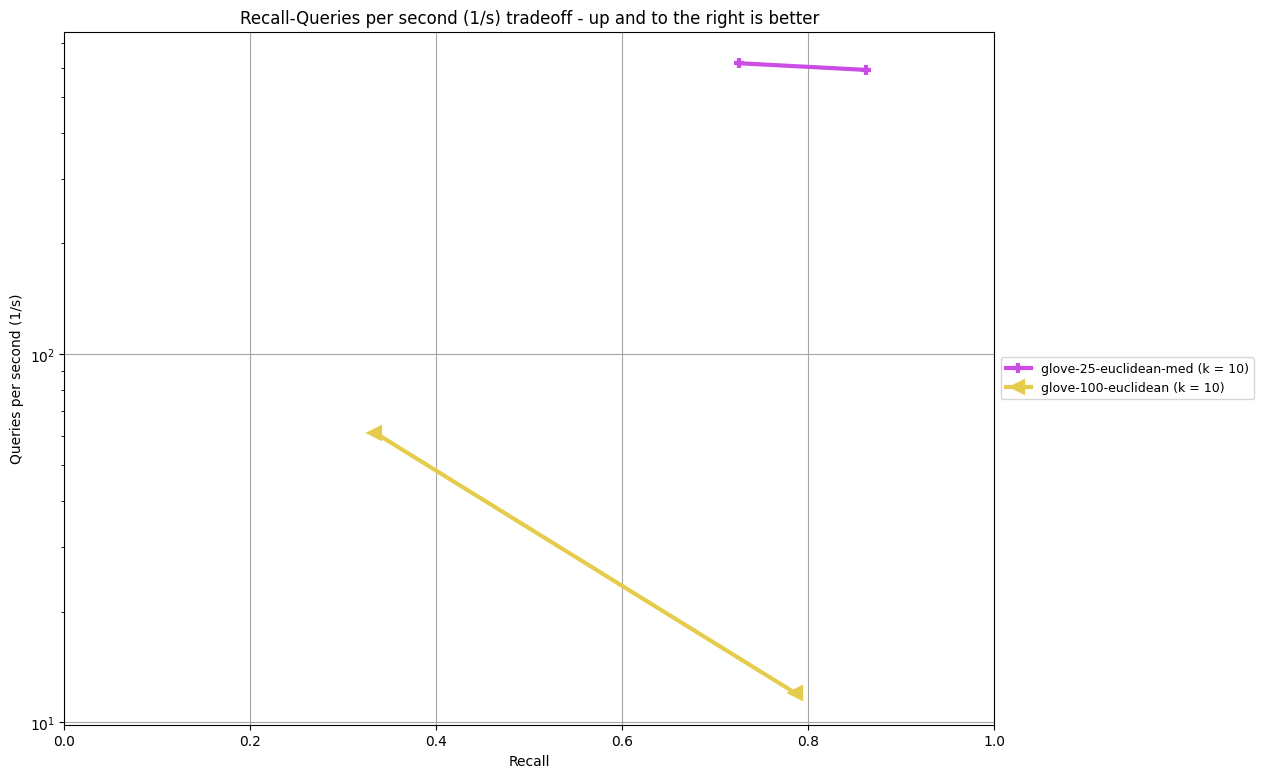
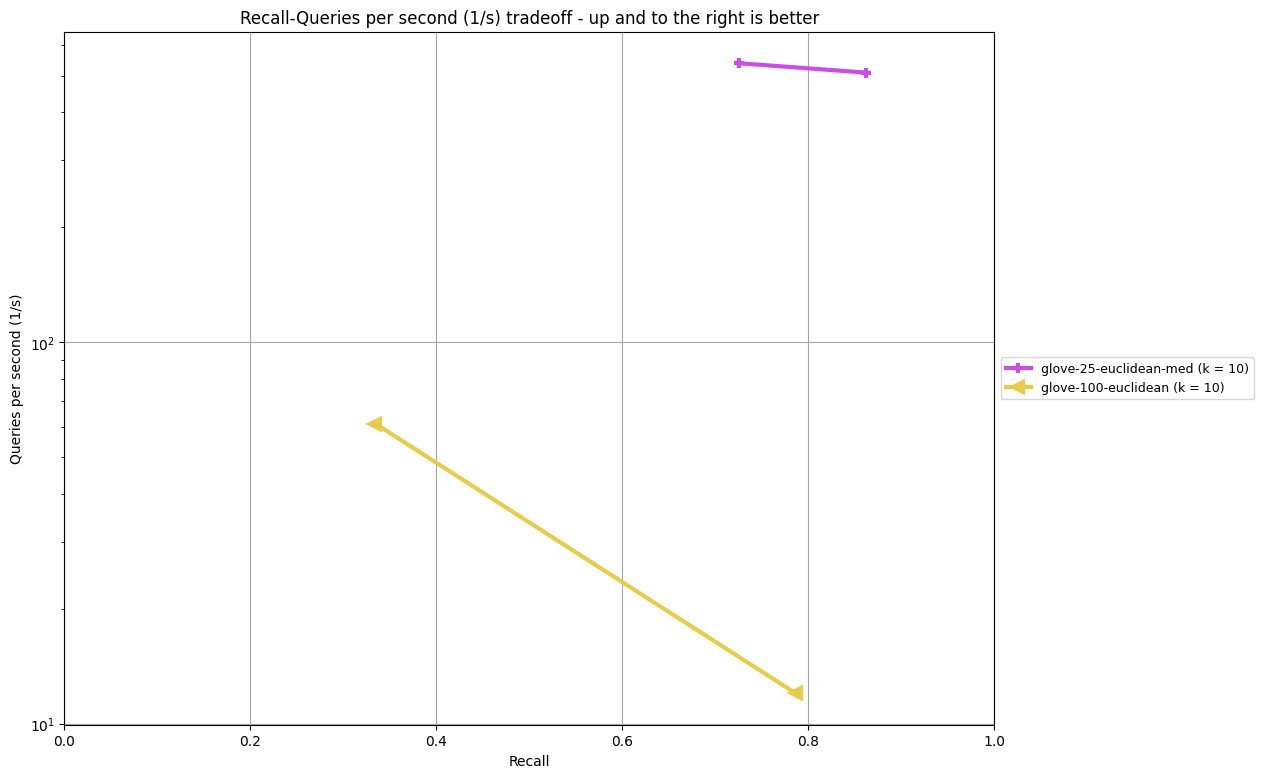
Re-init mqh-test

Changed region(s): [[0.2779, 0.5244, 0.5867, 0.8329], [0.6176, 0.0617, 0.6793, 0.0925], [0.0309, 0.4319, 0.0618, 0.4627]]

diff --git a/glove-25-euclidean-med_10_euclidean.html b/glove-25-euclidean-med_10_euclidean.html
@@ -74,8 +74,8 @@
                             pointStyle: "circle",
                             borderColor: "rgba(153, 153, 153, 1)",
                             data: [
-                                                                    { x: 0.72514 , y: 617.5087767784531, label: "MQH(M2=16, level=4, m_level=1, m_num=64, l0=5, delta=0.3, flag=0)" },
-                                                                    { x: 0.8614900000000001 , y: 592.3678190087902, label: "MQH(M2=16, level=4, m_level=1, m_num=64, l0=5, delta=0.3, flag=1)" },
+                                                                    { x: 0.72514 , y: 538.5044294299818, label: "MQH(M2=16, level=4, m_level=1, m_num=64, l0=5, delta=0.3, flag=0)" },
+                                                                    { x: 0.8614900000000001 , y: 508.95259044948216, label: "MQH(M2=16, level=4, m_level=1, m_num=64, l0=5, delta=0.3, flag=1)" },
                                                             ]
                         },
                                                 {
@@ -172,7 +172,7 @@
                             pointStyle: "circle",
                             borderColor: "rgba(153, 153, 153, 1)",
                             data: [
-                                                                    { x: 0.8614900000000001 , y: 12.964287042617798, label: "MQH(M2=16, level=4, m_level=1, m_num=64, l0=5, delta=0.3, flag=1)" },
+                                                                    { x: 0.8614900000000001 , y: 12.434906005859375, label: "MQH(M2=16, level=4, m_level=1, m_num=64, l0=5, delta=0.3, flag=1)" },
                                                             ]
                         },
                                                 {
@@ -462,8 +462,8 @@
                             pointStyle: "circle",
                             borderColor: "rgba(153, 153, 153, 1)",
                             data: [
-                                                                    { x: 0.02700221862048718 , y: 617.5087767784531, label: "MQH(M2=16, level=4, m_level=1, m_num=64, l0=5, delta=0.3, flag=0)" },
-                                                                    { x: 0.02394325363393303 , y: 592.3678190087902, label: "MQH(M2=16, level=4, m_level=1, m_num=64, l0=5, delta=0.3, flag=1)" },
+                                                                    { x: 0.02700221862048718 , y: 538.5044294299818, label: "MQH(M2=16, level=4, m_level=1, m_num=64, l0=5, delta=0.3, flag=0)" },
+                                                                    { x: 0.02394325363393303 , y: 508.95259044948216, label: "MQH(M2=16, level=4, m_level=1, m_num=64, l0=5, delta=0.3, flag=1)" },
                                                             ]
                         },
                                                 {
@@ -659,8 +659,8 @@
                             pointStyle: "circle",
                             borderColor: "rgba(153, 153, 153, 1)",
                             data: [
-                                                                    { x: 0.72514 , y: 3238.820362091065, label: "MQH(M2=16, level=4, m_level=1, m_num=64, l0=5, delta=0.3, flag=0)" },
-                                                                    { x: 0.8614900000000001 , y: 3376.280641555786, label: "MQH(M2=16, level=4, m_level=1, m_num=64, l0=5, delta=0.3, flag=1)" },
+                                                                    { x: 0.72514 , y: 3713.989877700805, label: "MQH(M2=16, level=4, m_level=1, m_num=64, l0=5, delta=0.3, flag=0)" },
+                                                                    { x: 0.8614900000000001 , y: 3929.6391010284424, label: "MQH(M2=16, level=4, m_level=1, m_num=64, l0=5, delta=0.3, flag=1)" },
                                                             ]
                         },
                                                 {
@@ -760,8 +760,8 @@
                             pointStyle: "circle",
                             borderColor: "rgba(153, 153, 153, 1)",
                             data: [
-                                                                    { x: 0.46082999999999996 , y: 617.5087767784531, label: "MQH(M2=16, level=4, m_level=1, m_num=64, l0=5, delta=0.3, flag=0)" },
-                                                                    { x: 0.56654 , y: 592.3678190087902, label: "MQH(M2=16, level=4, m_level=1, m_num=64, l0=5, delta=0.3, flag=1)" },
+                                                                    { x: 0.46082999999999996 , y: 538.5044294299818, label: "MQH(M2=16, level=4, m_level=1, m_num=64, l0=5, delta=0.3, flag=0)" },
+                                                                    { x: 0.56654 , y: 508.95259044948216, label: "MQH(M2=16, level=4, m_level=1, m_num=64, l0=5, delta=0.3, flag=1)" },
                                                             ]
                         },
                                                 {
@@ -861,8 +861,8 @@
                             pointStyle: "circle",
                             borderColor: "rgba(153, 153, 153, 1)",
                             data: [
-                                                                    { x: 0.49583000000000005 , y: 617.5087767784531, label: "MQH(M2=16, level=4, m_level=1, m_num=64, l0=5, delta=0.3, flag=0)" },
-                                                                    { x: 0.6048199999999999 , y: 592.3678190087902, label: "MQH(M2=16, level=4, m_level=1, m_num=64, l0=5, delta=0.3, flag=1)" },
+                                                                    { x: 0.49583000000000005 , y: 538.5044294299818, label: "MQH(M2=16, level=4, m_level=1, m_num=64, l0=5, delta=0.3, flag=0)" },
+                                                                    { x: 0.6048199999999999 , y: 508.95259044948216, label: "MQH(M2=16, level=4, m_level=1, m_num=64, l0=5, delta=0.3, flag=1)" },
                                                             ]
                         },
                                                 {
@@ -962,8 +962,8 @@
                             pointStyle: "circle",
                             borderColor: "rgba(153, 153, 153, 1)",
                             data: [
-                                                                    { x: 0.72514 , y: 1.5234947204589844, label: "MQH(M2=16, level=4, m_level=1, m_num=64, l0=5, delta=0.3, flag=0)" },
-                                                                    { x: 0.8614900000000001 , y: 1.6592741012573242, label: "MQH(M2=16, level=4, m_level=1, m_num=64, l0=5, delta=0.3, flag=1)" },
+                                                                    { x: 0.72514 , y: 1.8460750579833984, label: "MQH(M2=16, level=4, m_level=1, m_num=64, l0=5, delta=0.3, flag=0)" },
+                                                                    { x: 0.8614900000000001 , y: 1.9879341125488281, label: "MQH(M2=16, level=4, m_level=1, m_num=64, l0=5, delta=0.3, flag=1)" },
                                                             ]
                         },
                                                 {
@@ -1063,7 +1063,8 @@
                             pointStyle: "circle",
                             borderColor: "rgba(153, 153, 153, 1)",
                             data: [
-                                                                    { x: 0.8614900000000001 , y: 2.126765251159667, label: "MQH(M2=16, level=4, m_level=1, m_num=64, l0=5, delta=0.3, flag=1)" },
+                                                                    { x: 0.72514 , y: 2.123844623565674, label: "MQH(M2=16, level=4, m_level=1, m_num=64, l0=5, delta=0.3, flag=0)" },
+                                                                    { x: 0.8614900000000001 , y: 2.193450927734375, label: "MQH(M2=16, level=4, m_level=1, m_num=64, l0=5, delta=0.3, flag=1)" },
                                                             ]
                         },
                                                 {
@@ -1163,7 +1164,8 @@
                             pointStyle: "circle",
                             borderColor: "rgba(153, 153, 153, 1)",
                             data: [
-                                                                    { x: 0.8614900000000001 , y: 2.584226131439209, label: "MQH(M2=16, level=4, m_level=1, m_num=64, l0=5, delta=0.3, flag=1)" },
+                                                                    { x: 0.72514 , y: 2.2902822494506845, label: "MQH(M2=16, level=4, m_level=1, m_num=64, l0=5, delta=0.3, flag=0)" },
+                                                                    { x: 0.8614900000000001 , y: 2.349157333374024, label: "MQH(M2=16, level=4, m_level=1, m_num=64, l0=5, delta=0.3, flag=1)" },
                                                             ]
                         },
                                                 {
@@ -1262,7 +1264,7 @@
                             pointStyle: "circle",
                             borderColor: "rgba(153, 153, 153, 1)",
                             data: [
-                                                                    { x: 0.8614900000000001 , y: 4.048161268234264, label: "MQH(M2=16, level=4, m_level=1, m_num=64, l0=5, delta=0.3, flag=1)" },
+                                                                    { x: 0.8614900000000001 , y: 2.6106846332550053, label: "MQH(M2=16, level=4, m_level=1, m_num=64, l0=5, delta=0.3, flag=1)" },
                                                             ]
                         },
                                                 {

diff --git a/mqh-kjl.html b/mqh-kjl.html
@@ -72,8 +72,8 @@
                             pointStyle: "rect",
                             borderColor: "rgba(204, 76, 229, 1)",
                             data: [
-                                                                    { x: 0.72514 , y: 617.5087767784531, label: "MQH(M2=16, level=4, m_level=1, m_num=64, l0=5, delta=0.3, flag=0)" },
-                                                                    { x: 0.8614900000000001 , y: 592.3678190087902, label: "MQH(M2=16, level=4, m_level=1, m_num=64, l0=5, delta=0.3, flag=1)" },
+                                                                    { x: 0.72514 , y: 538.5044294299818, label: "MQH(M2=16, level=4, m_level=1, m_num=64, l0=5, delta=0.3, flag=0)" },
+                                                                    { x: 0.8614900000000001 , y: 508.95259044948216, label: "MQH(M2=16, level=4, m_level=1, m_num=64, l0=5, delta=0.3, flag=1)" },
                                                             ]
                         },
                                                 ]},
@@ -160,7 +160,7 @@
                             pointStyle: "rect",
                             borderColor: "rgba(204, 76, 229, 1)",
                             data: [
-                                                                    { x: 0.8614900000000001 , y: 12.964287042617798, label: "MQH(M2=16, level=4, m_level=1, m_num=64, l0=5, delta=0.3, flag=1)" },
+                                                                    { x: 0.8614900000000001 , y: 12.434906005859375, label: "MQH(M2=16, level=4, m_level=1, m_num=64, l0=5, delta=0.3, flag=1)" },
                                                             ]
                         },
                                                 ]},
@@ -420,8 +420,8 @@
                             pointStyle: "rect",
                             borderColor: "rgba(204, 76, 229, 1)",
                             data: [
-                                                                    { x: 0.02700221862048718 , y: 617.5087767784531, label: "MQH(M2=16, level=4, m_level=1, m_num=64, l0=5, delta=0.3, flag=0)" },
-                                                                    { x: 0.02394325363393303 , y: 592.3678190087902, label: "MQH(M2=16, level=4, m_level=1, m_num=64, l0=5, delta=0.3, flag=1)" },
+                                                                    { x: 0.02700221862048718 , y: 538.5044294299818, label: "MQH(M2=16, level=4, m_level=1, m_num=64, l0=5, delta=0.3, flag=0)" },
+                                                                    { x: 0.02394325363393303 , y: 508.95259044948216, label: "MQH(M2=16, level=4, m_level=1, m_num=64, l0=5, delta=0.3, flag=1)" },
                                                             ]
                         },
                                                 ]},
@@ -596,8 +596,8 @@
                             pointStyle: "rect",
                             borderColor: "rgba(204, 76, 229, 1)",
                             data: [
-                                                                    { x: 0.72514 , y: 3238.820362091065, label: "MQH(M2=16, level=4, m_level=1, m_num=64, l0=5, delta=0.3, flag=0)" },
-                                                                    { x: 0.8614900000000001 , y: 3376.280641555786, label: "MQH(M2=16, level=4, m_level=1, m_num=64, l0=5, delta=0.3, flag=1)" },
+                                                                    { x: 0.72514 , y: 3713.989877700805, label: "MQH(M2=16, level=4, m_level=1, m_num=64, l0=5, delta=0.3, flag=0)" },
+                                                                    { x: 0.8614900000000001 , y: 3929.6391010284424, label: "MQH(M2=16, level=4, m_level=1, m_num=64, l0=5, delta=0.3, flag=1)" },
                                                             ]
                         },
                                                 ]},
@@ -685,8 +685,8 @@
                             pointStyle: "rect",
                             borderColor: "rgba(204, 76, 229, 1)",
                             data: [
-                                                                    { x: 0.46082999999999996 , y: 617.5087767784531, label: "MQH(M2=16, level=4, m_level=1, m_num=64, l0=5, delta=0.3, flag=0)" },
-                                                                    { x: 0.56654 , y: 592.3678190087902, label: "MQH(M2=16, level=4, m_level=1, m_num=64, l0=5, delta=0.3, flag=1)" },
+                                                                    { x: 0.46082999999999996 , y: 538.5044294299818, label: "MQH(M2=16, level=4, m_level=1, m_num=64, l0=5, delta=0.3, flag=0)" },
+                                                                    { x: 0.56654 , y: 508.95259044948216, label: "MQH(M2=16, level=4, m_level=1, m_num=64, l0=5, delta=0.3, flag=1)" },
                                                             ]
                         },
                                                 ]},
@@ -774,8 +774,8 @@
                             pointStyle: "rect",
                             borderColor: "rgba(204, 76, 229, 1)",
                             data: [
-                                                                    { x: 0.49583000000000005 , y: 617.5087767784531, label: "MQH(M2=16, level=4, m_level=1, m_num=64, l0=5, delta=0.3, flag=0)" },
-                                                                    { x: 0.6048199999999999 , y: 592.3678190087902, label: "MQH(M2=16, level=4, m_level=1, m_num=64, l0=5, delta=0.3, flag=1)" },
+                                                                    { x: 0.49583000000000005 , y: 538.5044294299818, label: "MQH(M2=16, level=4, m_level=1, m_num=64, l0=5, delta=0.3, flag=0)" },
+                                                                    { x: 0.6048199999999999 , y: 508.95259044948216, label: "MQH(M2=16, level=4, m_level=1, m_num=64, l0=5, delta=0.3, flag=1)" },
                                                             ]
                         },
                                                 ]},
@@ -863,8 +863,8 @@
                             pointStyle: "rect",
                             borderColor: "rgba(204, 76, 229, 1)",
                             data: [
-                                                                    { x: 0.72514 , y: 1.5234947204589844, label: "MQH(M2=16, level=4, m_level=1, m_num=64, l0=5, delta=0.3, flag=0)" },
-                                                                    { x: 0.8614900000000001 , y: 1.6592741012573242, label: "MQH(M2=16, level=4, m_level=1, m_num=64, l0=5, delta=0.3, flag=1)" },
+                                                                    { x: 0.72514 , y: 1.8460750579833984, label: "MQH(M2=16, level=4, m_level=1, m_num=64, l0=5, delta=0.3, flag=0)" },
+                                                                    { x: 0.8614900000000001 , y: 1.9879341125488281, label: "MQH(M2=16, level=4, m_level=1, m_num=64, l0=5, delta=0.3, flag=1)" },
                                                             ]
                         },
                                                 ]},
@@ -952,7 +952,8 @@
                             pointStyle: "rect",
                             borderColor: "rgba(204, 76, 229, 1)",
                             data: [
-                                                                    { x: 0.8614900000000001 , y: 2.126765251159667, label: "MQH(M2=16, level=4, m_level=1, m_num=64, l0=5, delta=0.3, flag=1)" },
+                                                                    { x: 0.72514 , y: 2.123844623565674, label: "MQH(M2=16, level=4, m_level=1, m_num=64, l0=5, delta=0.3, flag=0)" },
+                                                                    { x: 0.8614900000000001 , y: 2.193450927734375, label: "MQH(M2=16, level=4, m_level=1, m_num=64, l0=5, delta=0.3, flag=1)" },
                                                             ]
                         },
                                                 ]},
@@ -1040,7 +1041,8 @@
                             pointStyle: "rect",
                             borderColor: "rgba(204, 76, 229, 1)",
                             data: [
-                                                                    { x: 0.8614900000000001 , y: 2.584226131439209, label: "MQH(M2=16, level=4, m_level=1, m_num=64, l0=5, delta=0.3, flag=1)" },
+                                                                    { x: 0.72514 , y: 2.2902822494506845, label: "MQH(M2=16, level=4, m_level=1, m_num=64, l0=5, delta=0.3, flag=0)" },
+                                                                    { x: 0.8614900000000001 , y: 2.349157333374024, label: "MQH(M2=16, level=4, m_level=1, m_num=64, l0=5, delta=0.3, flag=1)" },
                                                             ]
                         },
                                                 ]},
@@ -1128,7 +1130,7 @@
                             pointStyle: "rect",
                             borderColor: "rgba(204, 76, 229, 1)",
                             data: [
-                                                                    { x: 0.8614900000000001 , y: 4.048161268234264, label: "MQH(M2=16, level=4, m_level=1, m_num=64, l0=5, delta=0.3, flag=1)" },
+                                                                    { x: 0.8614900000000001 , y: 2.6106846332550053, label: "MQH(M2=16, level=4, m_level=1, m_num=64, l0=5, delta=0.3, flag=1)" },
                                                             ]
                         },
                                                 ]},

diff --git a/ann_benchmarks/algorithms/mqh-test/binding/mqh.h b/ann_benchmarks/algorithms/mqh-test/binding/mqh.h
@@ -1183,12 +1183,12 @@ std::vector<Neighbor> MQH::query(const std::vector<float>& query_pt, int k, floa
     
     // Cosine table is computed at query time, the rest of the tables are precomputed at index time
     int angular_resolution = 100; // represents the resolution or number of discrete steps used when converting between angular distances and bit counts
-    std::vector<int> cosine_table(angular_resolution);
+    std::vector<int> angular_table(angular_resolution);
 
     for (int i = 0; i < angular_resolution; i++) {
-        cosine_table[i] = num_hash_functions * acos(1.0f * i / angular_resolution) / PI + offset0;
-        if (cosine_table[i] > num_hash_functions) {
-            cosine_table[i] = num_hash_functions;
+        angular_table[i] = num_hash_functions * acos(1.0f * i / angular_resolution) / PI + offset0;
+        if (angular_table[i] > num_hash_functions) {
+            angular_table[i] = num_hash_functions;
         }
     }
 
@@ -1381,10 +1381,11 @@ std::vector<Neighbor> MQH::query(const std::vector<float>& query_pt, int k, floa
     
     // Third-pass: Process remaining clusters with adaptive filtering
     points_examined = 0;
-    float cur_val = final_results[count_final_results < topk ? count_final_results - 1 : topk - 1].distance;  // Current distance threshold
+    float cur_val = final_results[topk - 1].distance;  // Current distance threshold
     bool thres_flag = false;
     
-    // Process remaining cells
+    // Process remaining cells - 
+    // NOTE: Rather than considering each point and each level for each point as done in the pseudo code, we consider each centroid and then each element within each centroid. 
     for (const auto& cell_dist : cell_distances) {
         int cell_idx = cell_dist.first;
         float cell_dist_val = cell_dist.second;
@@ -1398,11 +1399,6 @@ std::vector<Neighbor> MQH::query(const std::vector<float>& query_pt, int k, floa
             } else {
                 points_examined += cell_size;
             }
-        }
-        
-        // Skip entire cell if distance exceeds threshold significantly -> why have this check this late why not around line 1270 
-        if (std::abs(cell_dist_val) > cur_val + delta_flag * cell_dist_val) {
-            continue;
         }
         
         // Examine each point in this cell
@@ -1519,32 +1515,26 @@ Label2:
                     cur_obj += sizeof(unsigned long);
                 }
                 
-                // Use the quantile table and bit threshold computation
+                // Calculate angle-based threshold from distance gap
                 int y_idx = static_cast<int>(angular_resolution * x / residual_NORM);
                 if (y_idx >= angular_resolution)
                     y_idx = angular_resolution - 1;
-                
-                // Apply advanced bit threshold from precomputed table
-                // This is more nuanced than the basic cosine table lookup
-                float angle_ratio = static_cast<float>(y_idx) / angular_resolution;
-                int lookup_idx = static_cast<int>(angle_ratio * norm_dist_resolution);
-                if (lookup_idx >= norm_dist_resolution)
-                    lookup_idx = norm_dist_resolution - 1;
-                
-                // Get bit threshold from distance_to_hamming_thresholds using the lookup index
-                int bit_threshold = distance_to_hamming_thresholds[lookup_idx];
-                
-                // Ensure we don't exceed the bounds
-                int y = std::min(bit_threshold, cosine_table[y_idx]);
-                
-                // Check based on left/right side
+
+                // Get bit threshold directly from cosine table
+                int y = angular_table[y_idx];
+
+                // Apply collision testing based on whether point is on left/right side of hyperplane
                 if (is_left) {
+                    // For negative side
                     if (collision_ >= y) {
+                        // Too many bit differences
                         no_exact = true;
                     }
                 } else {
+                    // For positive side
                     collision_ = num_hash_functions - collision_;
                     if (collision_ >= y) {
+                        // Too many bit differences
                         no_exact = true;
                     }
                 }
@@ -1560,7 +1550,7 @@ Label2:
                 visited_array[point_id] = visited_array_tag;
                 
                 // Skip if worse than current kth result
-                if (distance >= final_results[count_final_results < topk ? count_final_results - 1 : topk - 1].distance) {
+                if (distance >= final_results[topk - 1].distance) {
                     continue;
                 }
                 
@@ -1569,13 +1559,9 @@ Label2:
                 nn.id = point_id;
                 nn.distance = distance;
                 
-                if (count_final_results < topk) {
-                    InsertIntoPool(final_results.data(), count_final_results, nn);
-                    count_final_results++;
-                } else {
-                    InsertIntoPool(final_results.data(), topk, nn);
-                    cur_val = final_results[topk - 1].distance;
-                }
+
+                InsertIntoPool(final_results.data(), topk, nn);
+                cur_val = final_results[topk - 1].distance;
             }
         }
         
